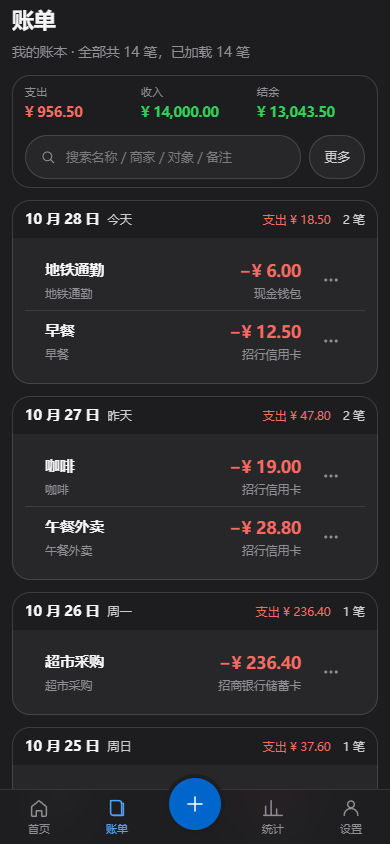
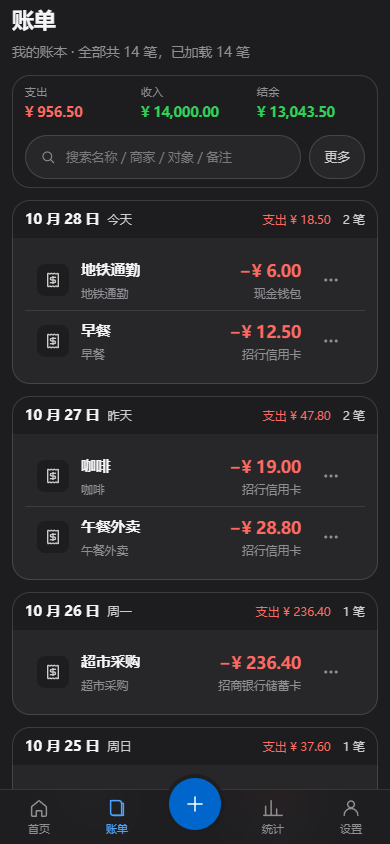
feat(mobile): 账单页每行接入分类图标 + 最近记账点进详情页
- tx-row 图标：复用首页 subjectIcon/entityIcon 映射与 list 兜底，行最左、垂直居中
- 图标样式并入首页 .mh-tx__icon 同一条规则（32x32 / --r-sm / parchment 底 / 间距 12px）
- 手机端 grid 增 icon 列；pick 列改为仅多选态补上（常驻会白吃一个 8px 列间距）
- 补容器缺失的 tx-list 类：三条 .tx-list.is-selecting 规则此前全是死规则
- 首页最近记账 href → /transactions/:id（真点一次落到 .txd 详情页）
- 探针新增 10 条断言（117/117）；版本同步 1.1.9；SW v30

diff --git a/public/assets/app.css b/public/assets/app.css
@@ -6246,14 +6246,26 @@ a.acct-row:hover {
      `display: contents`，让它们的子元素各自占格位 —— 不为手机写第二套模板
      （两套模板必然会在改字段时漏改一边）。 */
   .tx-row {
+    /* 首列是分类图标 —— 图标在文字之前、最左侧。
+       选择框**不占常驻列**：模板里留一列即使它是 0 宽，也照样吃掉一个 8px 的列间距，
+       每一行左边凭空多出 8px（实测图标被推到离行左缘 20px，首页是 16px）。
+       所以默认模板没有 pick 列，进入多选态才由下面那条规则补上。 */
     grid-template-columns: auto minmax(0, 1fr) auto auto auto 44px;
     grid-template-areas:
-      'pick main main   main   amt  more'
-      'pick merch tags badges acct more';
+      'icon main  main   main   amt  more'
+      'icon merch tags badges acct more';
     align-items: center;
     column-gap: 8px;
     row-gap: 2px;
     padding: 8px 12px;
+  }
+
+  /* 多选态：补一列选择框（`.tx-row__pick` 此时才 display:flex） */
+  .tx-list.is-selecting .tx-row {
+    grid-template-columns: auto auto minmax(0, 1fr) auto auto auto 44px;
+    grid-template-areas:
+      'pick icon main  main   main   amt  more'
+      'pick icon merch tags badges acct more';
   }
 
   .tx-row__subject,
@@ -6325,11 +6337,19 @@ a.acct-row:hover {
     line-height: 1.3;
   }
 
-  /* 分类图标与时间让位给「名称 + 金额」这条主线：手机上它们只是重复信息，
-     且会挤掉名称的可显示宽度。 */
-  .tx-row__icon,
+  /* 时间让位给「名称 + 金额」这条主线：手机上它是重复信息，且会挤掉名称的可显示宽度。
+     分类图标反过来**要显示** —— 它是「这一笔是什么」的第一眼信号，
+     与首页「最近记账」同一个视觉语法（尺寸 / 底色 / 圆角见 mobile.css 的共用规则）。 */
   .tx-row__time {
     display: none;
+  }
+
+  /* 图标占最左一格、跨两行垂直居中（等价于首页行的 `align-items: center`）。
+     `margin-right: 4px` 是补差：行内 column-gap 是 8px，加它才等于首页的 12px。 */
+  .tx-row__icon {
+    grid-area: icon;
+    align-self: center;
+    margin-right: 4px;
   }
 
   .tx-row__menu {

diff --git a/public/assets/views/mobile-home.js b/public/assets/views/mobile-home.js
@@ -169,9 +169,10 @@ function sparkline(rows, netWorth, days) {
 /**
  * 最近记账里的一行：图标 · 名称 · 时间+账户 · 金额。
  *
- * 点这一行跳到**它所在那一天的账单**（`dateFrom=dateTo=txDate`），而不是一个并不存在的
- * 「详情页」：账单列表本来就支持日期区间筛选，这样做不用加任何后端参数，
- * 且用户看到的是「这一天前前后后记了什么」——比单独一条的详情页更有用。
+ * 点这一行进**这笔账单的详情页** `/transactions/:id`（路由表 `docs/13 §3.4`）。
+ * 早先跳的是「它所在那一天的账单列表」（`dateFrom=dateTo=txDate`）—— 那个决定是
+ * 在详情页还不存在时做的；现在详情页有了，「点某一笔就该到某一笔」才是直觉得：
+ * 用户点的是**这一行**，不是「这一天」。想看一整天的流水，账单页本来就能按日期筛。
  */
 function recentRow(tx) {
   const delta = Number(tx.signedAmount ?? tx.accountDelta ?? 0);
@@ -181,8 +182,9 @@ function recentRow(tx) {
       : tx.txDate.slice(5).replace('-', '/')
     : '';
   const sub = [when, tx.account?.name].filter(Boolean).join(' · ');
-  const href = tx.txDate
-    ? `/transactions?dateFrom=${encodeURIComponent(tx.txDate)}&dateTo=${encodeURIComponent(tx.txDate)}`
+  // 有 id 就进这一笔的详情页；id 缺失（理论上不会）才退到账单列表，不留死链
+  const href = tx.id
+    ? `/transactions/${encodeURIComponent(tx.id)}`
     : '/transactions';
 
   return `

diff --git a/public/assets/views/transactions.js b/public/assets/views/transactions.js
@@ -276,7 +276,12 @@ export async function renderTransactions(container, { go, query }) {
         </div>
       </div>
 
-      <div data-role="list"></div>
+      <!--
+        tx-list 这个类不能省：CSS 里三条多选态规则（含「选择框只在多选时出现」）
+        都挂在 .tx-list.is-selecting 上。它是在某次改成 data-role 插槽时被漏掉的，
+        结果手机上进了多选态也**看不到复选框** —— 一个静默的死规则。
+      -->
+      <div class="tx-list" data-role="list"></div>
       <div data-role="foot"></div>
     `,
   });
@@ -1037,7 +1042,12 @@ export async function renderTransactions(container, { go, query }) {
         <span class="tx-row__time tnum">${esc(tx.txTime ? String(tx.txTime).slice(0, 5) : '—')}</span>
 
         <span class="tx-row__subject">
-          <span class="tx-row__icon">${entityIcon(subjectIcon(tx), 16)}</span>
+          <!--
+            分类图标：与首页「最近记账」**同一套**取法（subjectIcon → entityIcon），
+            兜底也同是 list 图标 —— 图标名不在图标集里时 entityIcon 会返回空串，
+            不兜底就是一个空方块（看着像没渲染完，且格位塌陷会让相邻行错开）。
+          -->
+          <span class="tx-row__icon">${entityIcon(subjectIcon(tx), 16) || icon('list', 16)}</span>
           <span class="tx-row__cat">${esc(subjectText(tx))}</span>
           ${
             dots.shown.length

diff --git a/public/assets/mobile.css b/public/assets/mobile.css
@@ -877,8 +877,12 @@
     border-top: 0;
   }
 
+  /* 行首图标：**首页 / 账单页共用这一条规则**，两页的圆形底不会长成两个样子。
+     （账单行的 `.tx-row__icon` 桌面是 26px，手机上抬到与首页一致的 32px ——
+      手机上它是行的第一个视觉落点，26px 在 56px 的行高里显得缩。） */
   .mh-acct-row__icon,
-  .mh-tx__icon {
+  .mh-tx__icon,
+  .tx-row__icon {
     display: inline-flex;
     align-items: center;
     justify-content: center;

diff --git a/public/sw.js b/public/sw.js
@@ -21,7 +21,7 @@
  * 静态资源走 SWR，不换版本号的话用户第一次刷新拿到的仍是旧 JS ——
  * 正好是要修的那份，会被当成「没修好」。
  */
-const VERSION = 'cc-ledger-v29';
+const VERSION = 'cc-ledger-v30';
 const SHELL = `${VERSION}-shell`;
 const STATIC = `${VERSION}-static`;
 const API = `${VERSION}-api`;

diff --git a/src/config/env.ts b/src/config/env.ts
@@ -45,7 +45,7 @@ const EnvSchema = z.object({
   ENABLE_SCHEDULER: boolEnv(true),
   BACKUP_ENABLED: boolEnv(true),
   BACKUP_RETENTION_DAYS: z.coerce.number().int().min(0).default(14),
-  APP_VERSION: z.string().min(1).default('1.1.8'),
+  APP_VERSION: z.string().min(1).default('1.1.9'),
 });
 
 export type Env = z.infer<typeof EnvSchema>;

diff --git a/CHANGELOG.md b/CHANGELOG.md
@@ -4,7 +4,31 @@
 打 `v*` tag 时 GitHub Actions 会产出同名的固定版本镜像（如 `v1.1.0`），
 推 `main` 时产出 `latest` 与 `sha-xxxxxxx`。
 
-## 1.1.8 — 2026-10-27
+## 1.1.9 — 2026-10-28
+
+### 改进（手机端：账单页每行接入分类图标 + 最近记账进详情页）
+- **账单页每条记录都有分类图标**，位于行最左侧、在金额与说明文字之前：
+  · 取法与首页「最近记账」**同一套**（`subjectIcon` → `entityIcon`），不重复定义映射；
+  · 分类为空 / 图标名不在图标集里时兜底 `icon('list')`，不会出现空方块或格位塌陷；
+  · 样式直接复用首页那条规则（`.mh-tx__icon` 与 `.tx-row__icon` 同一个声明块）：
+    32×32、`--r-sm` 圆角、`--c-parchment` 底、`--c-ink-muted-80` 图形色、
+    与文字间距 12px、行内垂直居中 —— 两页扫下来是同一种语言。
+  · 收入与支出（以及转账 / 应收应付 / 余额调整）都显示，分组标题、加载骨架、
+    空状态结构未动。
+- **首页「最近记账」点某一笔 → 该笔详情页** `/transactions/:id`，不再跳「那一天的账单列表」。
+  （早先跳列表是因为当时详情页还不存在；现在点的是**这一行**，就该到**这一笔**。）
+- 顺带修一处静默死规则：账单列表容器缺 `tx-list` 类，CSS 里三条 `.tx-list.is-selecting`
+  规则（含「多选态才显示复选框」）全部不生效 —— 手机上进多选态看不到复选框。
+  同时把 `pick`（选择框）列从手机端常驻模板里去掉：它即使 0 宽也吃掉一个 8px 列间距，
+  每行左边凭空多 8px；改成多选态才补这一列。
+
+### 说明
+- 未改动排序、筛选、分组、金额格式与格式化规则、数据请求流程。
+- 探针：`probe:mobile` 亮/暗各 **117/117**（新增：首页每行 href 为 `/transactions/:id`、
+  真点一次落到 `.txd` 详情页、图标格 32×32 基准、账单页每行都有图标且非空、
+  图标在最左且在文字与金额之前、行内垂直居中、与首页尺寸/底色/圆角一致、多选态补列后不溢出）。
+
+
 
 ### 改进（手机端记账页账单卡片重设计，仅动样式与布局）
 - **删除卡片顶部「记一笔 / 返回」那一栏操作区**（`.compose__head`）：卡片里只留账单信息本身。

diff --git a/DEPLOY-绿联NAS.md b/DEPLOY-绿联NAS.md
@@ -216,7 +216,7 @@ cat .env
 | 配置项 | 作用 | 能不能改 |
 |---|---|---|
 | `build: context: .` | 用当前目录的 `Dockerfile` 构建镜像 | 别改 |
-| `image: ${CC_IMAGE:-cc-ledger:1.1.8}` | 用哪个镜像：不设 `CC_IMAGE` 就用本地构建的这个名字；设成 `ghcr.io/shayi/cc-ledger:latest` 就是拉 GitHub 构建好的 | 可改（见 5.0） |
+| `image: ${CC_IMAGE:-cc-ledger:1.1.9}` | 用哪个镜像：不设 `CC_IMAGE` 就用本地构建的这个名字；设成 `ghcr.io/shayi/cc-ledger:latest` 就是拉 GitHub 构建好的 | 可改（见 5.0） |
 | `restart: unless-stopped` | **开机自启的核心**：容器退出就自动拉起；你手动停的则不再拉 | 见第五节 |
 | `ports: "3000:3000"` | **端口映射**，见第六节 | 端口冲突时只改左边 |
 | `JWT_SECRET` | 登录凭证密钥 | **必改**，其余可不动 |
@@ -270,7 +270,7 @@ echo 'CC_IMAGE=ghcr.io/shayi/cc-ledger:latest' >> .env
 ```
 
 > `CC_IMAGE` 不是应用的环境变量，只被 `docker-compose.yml` 读取，用来决定「用哪个镜像」。
-> 不写这一行 = 走本地构建（默认 `cc-ledger:1.1.8`）。
+> 不写这一行 = 走本地构建（默认 `cc-ledger:1.1.9`）。
 
 **第 2 步：登录 ghcr**（镜像设为 public 后可以跳过这步）
 
@@ -299,7 +299,7 @@ docker compose up -d
 |---|---|---|
 | `latest` | 每次推 `main` | 日常用这个 |
 | `sha-626e08c` | 每次构建 | 想钉死到某一次提交 |
-| `v1.1.8` | 打了 `v*` tag | 固定版本 |
+| `v1.1.9` | 打了 `v*` tag | 固定版本 |
 
 **想把镜像设为 public（这样任何机器不用登录就能拉）**：
 GitHub → 你的头像 → Your profile → **Packages** → `cc-ledger` → 右侧 **Package settings** →
@@ -717,7 +717,7 @@ curl http://127.0.0.1:3000/healthz
 {
   "status": "ok",
   "app": "CC记账",
-  "version": "1.1.8",
+  "version": "1.1.9",
   "uptimeSeconds": 3944,
   "database": { "connected": true, "migrationsApplied": 17, "walMode": true },
   "scheduler": { "running": true, "nextRun": "...", "tasks": [] }
